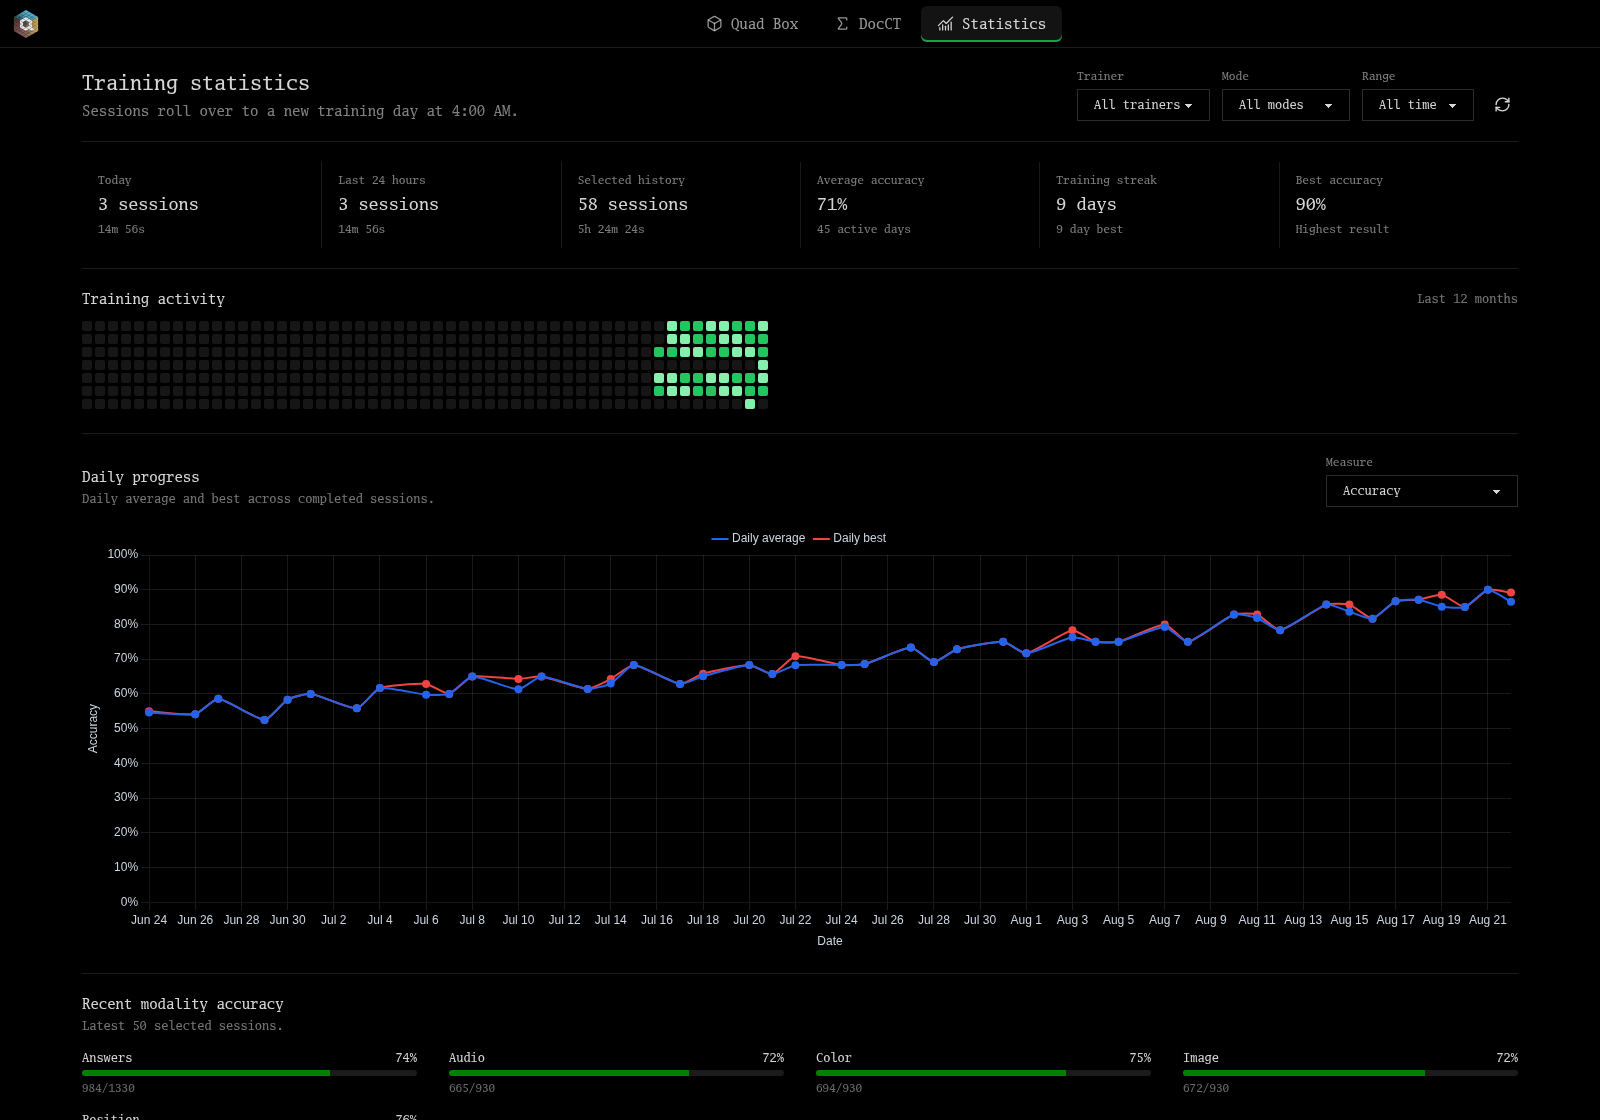
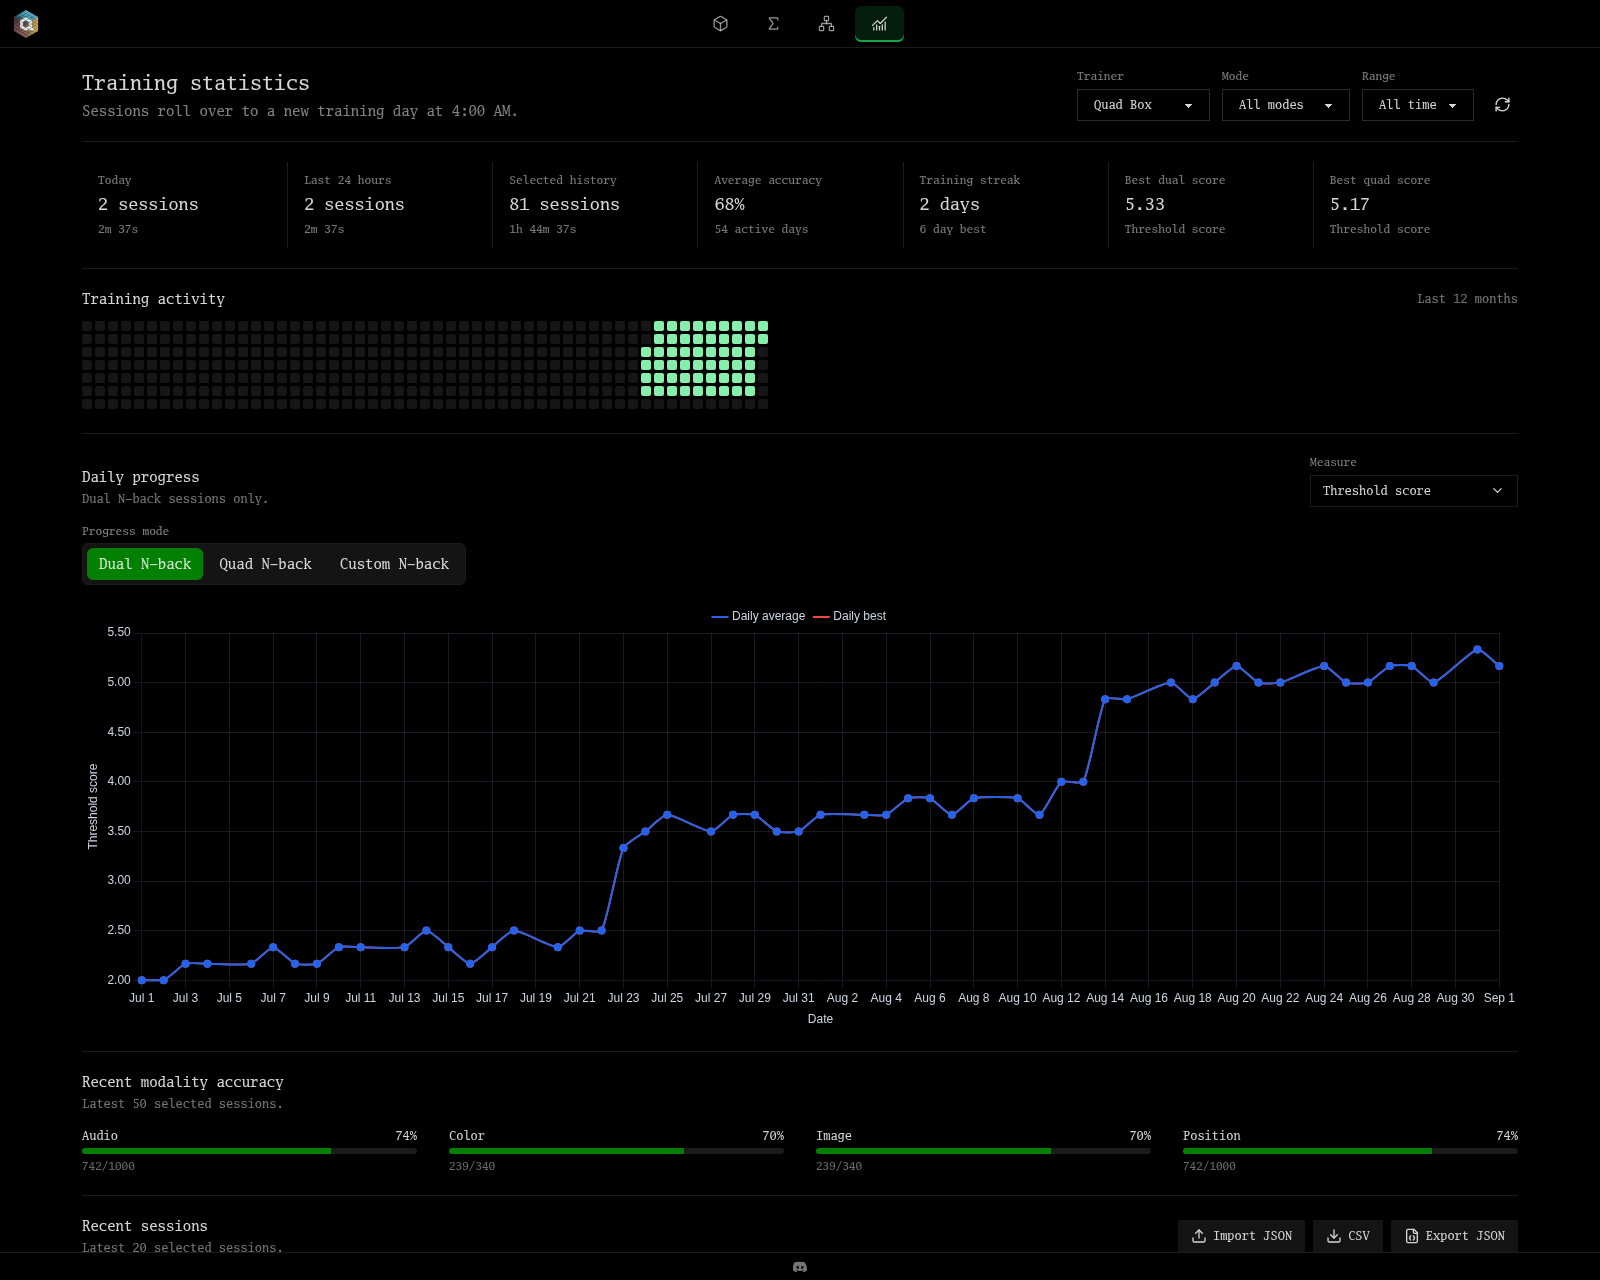
chore: refresh app presentation for v1.6.1

diff --git a/tests/communityLinks.test.js b/tests/communityLinks.test.js
@@ -18,16 +18,14 @@ describe('community Discord links', () => {
     target.remove()
   })
 
-  it('links both small Discord icons to their named communities', () => {
+  it('links the small Discord icon to its named community', () => {
     const links = [...target.querySelectorAll('a')]
-    expect(links).toHaveLength(2)
+    expect(links).toHaveLength(1)
     expect(links.map((link) => link.href)).toEqual([
       'https://discord.gg/brain',
-      'https://discord.gg/rxbrTVAgnH',
     ])
     expect(links.map((link) => link.getAttribute('aria-label'))).toEqual([
       'Mindbuilding Discord: discord.gg/brain',
-      'N-Back Discord: discord.gg/rxbrTVAgnH',
     ])
     expect(links.every((link) => link.target === '_blank' && link.querySelector('svg'))).toBe(true)
   })

diff --git a/src/lib/CommunityLinks.svelte b/src/lib/CommunityLinks.svelte
@@ -5,11 +5,6 @@
       displayUrl: 'discord.gg/brain',
       href: 'https://discord.gg/brain',
     },
-    {
-      label: 'N-Back Discord',
-      displayUrl: 'discord.gg/rxbrTVAgnH',
-      href: 'https://discord.gg/rxbrTVAgnH',
-    },
   ]
 </script>
 
